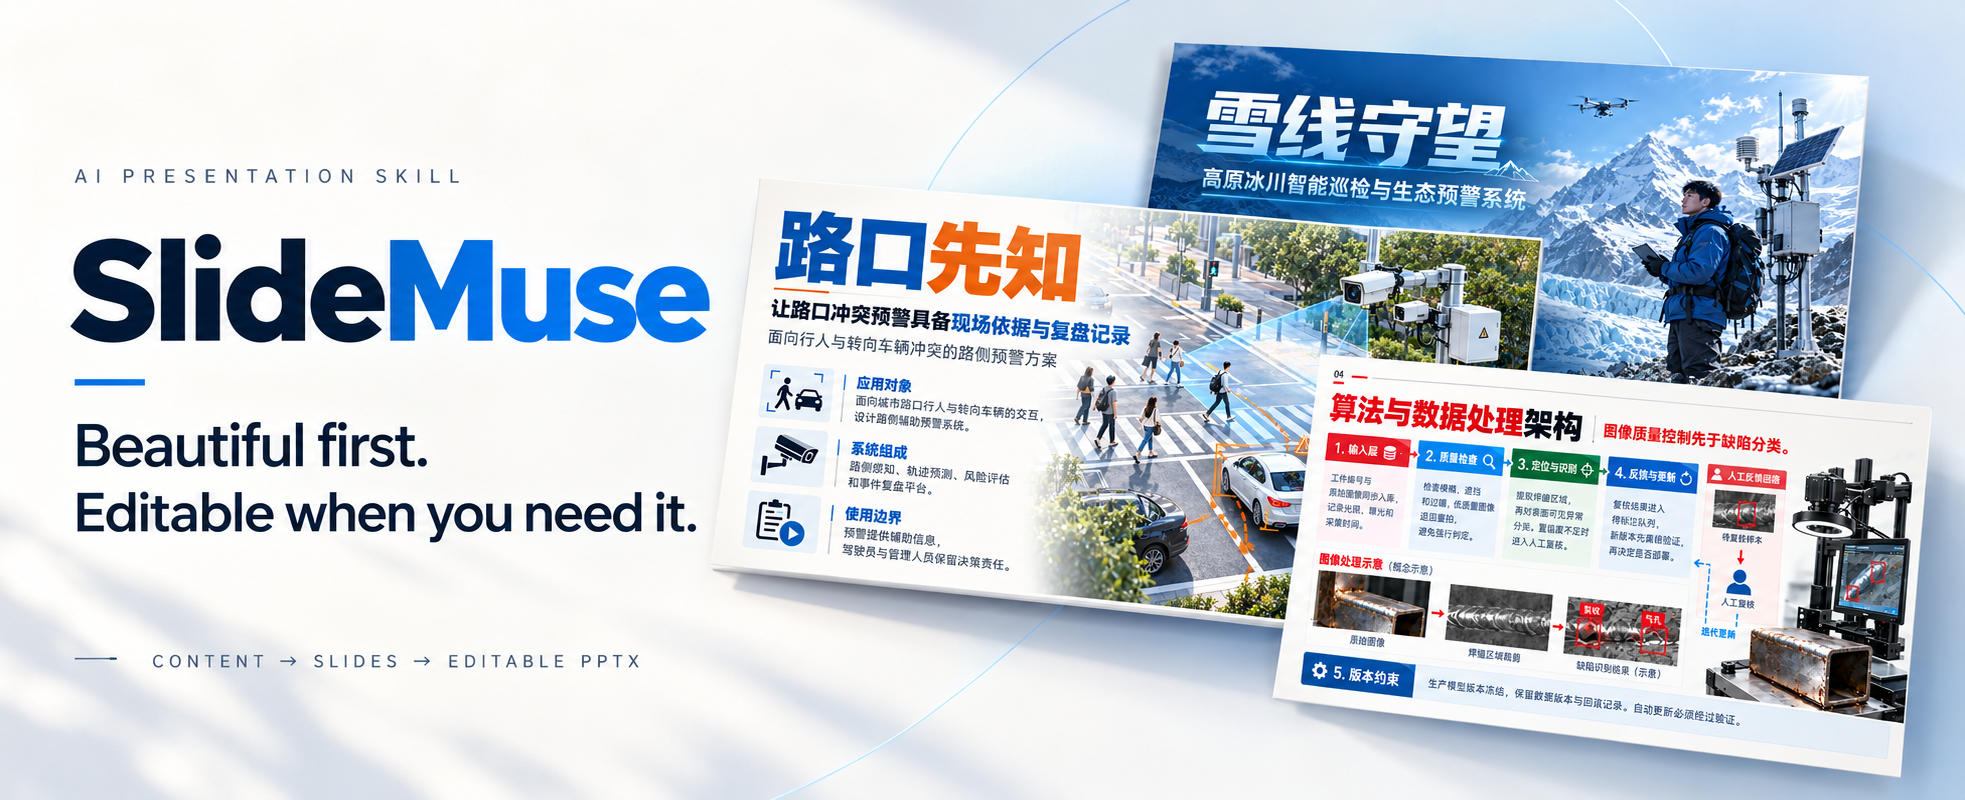
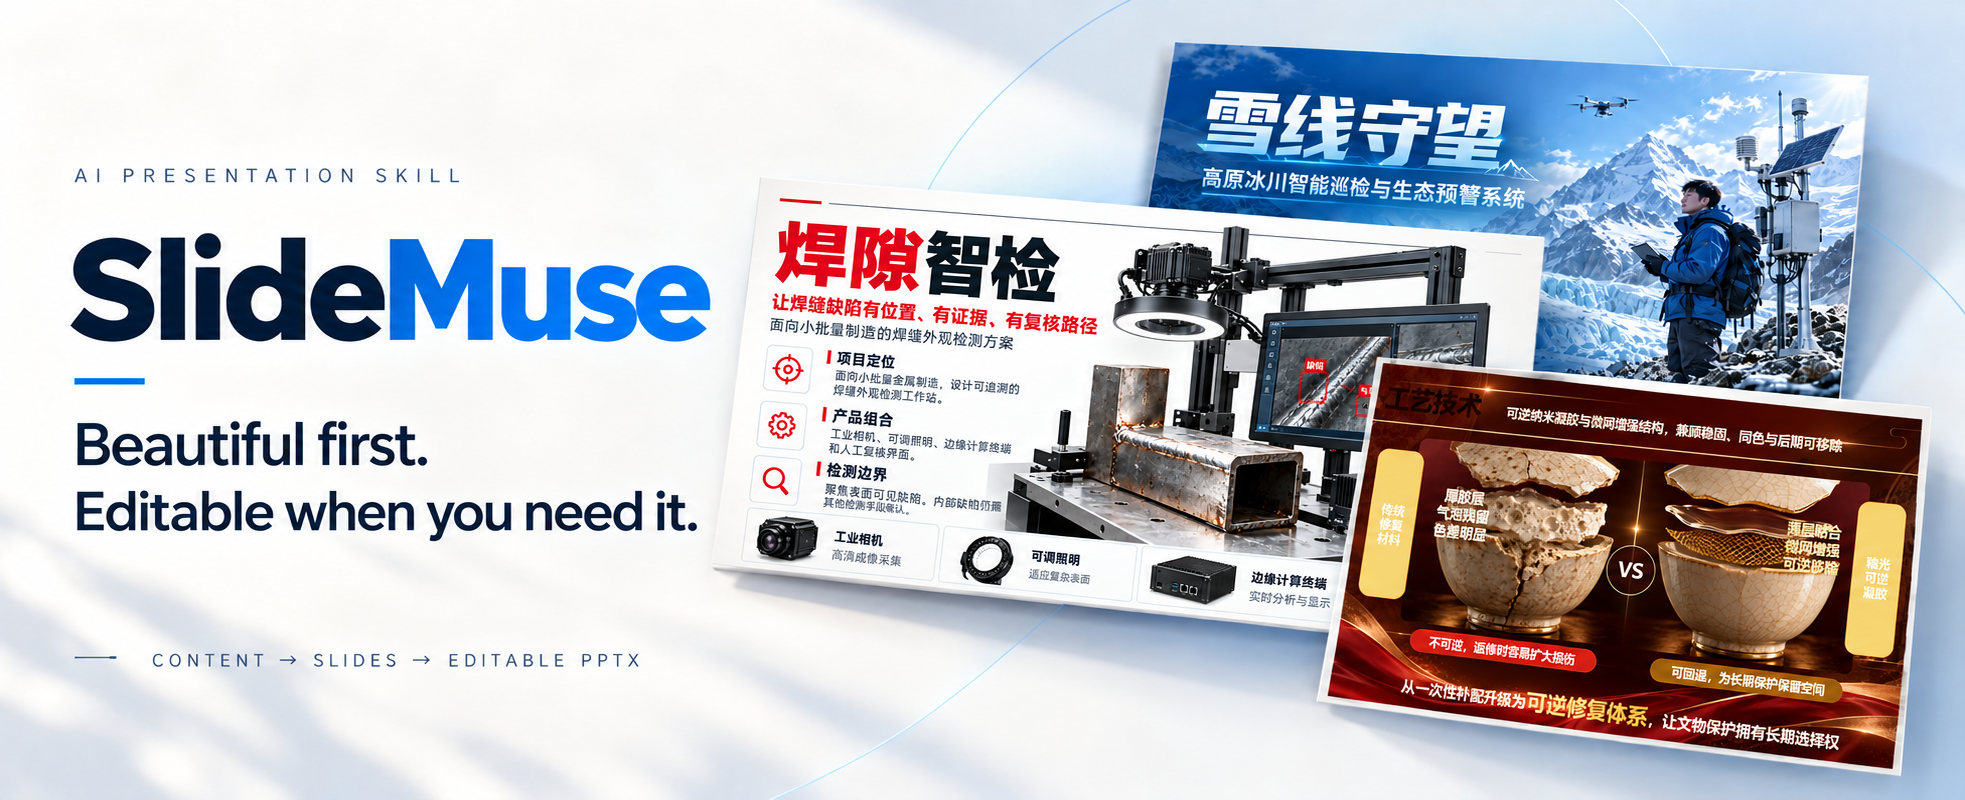
Update homepage hero showcase selection (2.16.3)

diff --git a/README.en.md b/README.en.md
@@ -1,6 +1,6 @@
 <div align="center">
 
-<img src="docs/assets/hero.webp" alt="SlideMuse: from source material to polished slides and editable PPTX, with transportation, glacier inspection, and manufacturing presentation cards" width="100%">
+<img src="docs/assets/hero.webp?v=2.16.3" alt="SlideMuse: from source material to polished slides and editable PPTX, with Weld Inspect, Snowline Watch, and red-and-gold ceramic restoration presentation cards" width="100%">
 
 # SlideMuse · Visual-first AI Presentation Skill
 
@@ -11,7 +11,7 @@ Especially strong for **university competition presentations**—including Chall
 Reconstruct slide images as native editable PowerPoint (PPTX) when needed.
 
 [![CI](https://github.com/helloo1568/slidemuse/actions/workflows/ci.yml/badge.svg)](https://github.com/helloo1568/slidemuse/actions/workflows/ci.yml)
-[![Version](https://img.shields.io/badge/version-2.16.2-79e9d1?labelColor=14243c)](CHANGELOG.md)
+[![Version](https://img.shields.io/badge/version-2.16.3-79e9d1?labelColor=14243c)](CHANGELOG.md)
 [![Python](https://img.shields.io/badge/Python-3.10%2B-82b5ff?labelColor=14243c)](requirements.txt)
 [![License: MIT](https://img.shields.io/badge/License-MIT-f2c98a?labelColor=14243c)](LICENSE)
 
@@ -44,7 +44,7 @@ For manual installation and requirements, see [Quick start](#quick-start).
 | Continue an existing task | Input preflight, resumable stages, affected-page rendering, and a consolidated per-page action queue. |
 | Review the deliverable | Object and content checks, scorecards bound to current files, and an optional offline per-page review panel. |
 
-Current version: **2.16.2**. See the [changelog](CHANGELOG.md) for details. These tools support production and validation; actual content and visuals still need review.
+Current version: **2.16.3**. See the [changelog](CHANGELOG.md) for details. These tools support production and validation; actual content and visuals still need review.
 2.16.0 adds bounded rendering, automatic environment invalidation and page-scoped dependency caching. Optional PowerPoint measurements locate text overflow and overlap. Real six-page backend controls and [production event logs](references/production-metrics.md) preserve repair cost and first-delivery outcomes; see the [pipeline guide](references/pipeline.md).
 
 

diff --git a/README.md b/README.md
@@ -1,6 +1,6 @@
 <div align="center">
 
-<img src="docs/assets/hero.webp" alt="SlideMuse：从材料到精美幻灯片，再到可编辑 PPTX，展示交通、冰川巡检与制造主题的作品卡片" width="100%">
+<img src="docs/assets/hero.webp?v=2.16.3" alt="SlideMuse：从材料到精美幻灯片，再到可编辑 PPTX，展示焊隙智检、雪线守望与红金工艺技术作品卡片" width="100%">
 
 # SlideMuse · 视觉优先的 AI PPT 技能
 
@@ -10,7 +10,7 @@
 重点面向**挑战杯（大挑/小挑）、中国国际大学生创新大赛、全国大学生交通运输科技大赛（交科赛）、三创赛、正大杯、大创等竞赛**，也适用于**学术汇报、论文答辩、项目路演、课程展示与电影质感 PPT**，支持图片转可编辑 PPT。
 
 [![CI](https://github.com/helloo1568/slidemuse/actions/workflows/ci.yml/badge.svg)](https://github.com/helloo1568/slidemuse/actions/workflows/ci.yml)
-[![Version](https://img.shields.io/badge/version-2.16.2-79e9d1?labelColor=14243c)](CHANGELOG.md)
+[![Version](https://img.shields.io/badge/version-2.16.3-79e9d1?labelColor=14243c)](CHANGELOG.md)
 [![Python](https://img.shields.io/badge/Python-3.10%2B-82b5ff?labelColor=14243c)](requirements.txt)
 [![License: MIT](https://img.shields.io/badge/License-MIT-f2c98a?labelColor=14243c)](LICENSE)
 
@@ -43,7 +43,7 @@
 | 接着上次继续做 | 输入预检、断点恢复、受影响页重渲染，以及集中列出的逐页待办。 |
 | 核对交付质量 | 对象与内容检查、当前文件绑定的评分卡，以及可选的离线逐页审阅面板。 |
 
-当前版本 **2.16.2**。完整变更见 [CHANGELOG](CHANGELOG.md)；这些工具辅助制作与核验，实际内容和画面仍需审阅。
+当前版本 **2.16.3**。完整变更见 [CHANGELOG](CHANGELOG.md)；这些工具辅助制作与核验，实际内容和画面仍需审阅。
 
 ---
 

diff --git a/CHANGELOG.md b/CHANGELOG.md
@@ -4,6 +4,13 @@
 
 ## [Unreleased]
 
+## [2.16.3] - 2026-10-07
+
+### Changed
+
+- Replace the README hero's transportation cover with Weld Inspect and its architecture slide with the second red-and-gold showcase image, the ceramic restoration process page.
+- Keep Snowline Watch in the hero and update both READMEs' descriptions and image cache version for the new selection.
+
 ## [2.16.2] - 2026-10-07
 
 ### Changed
